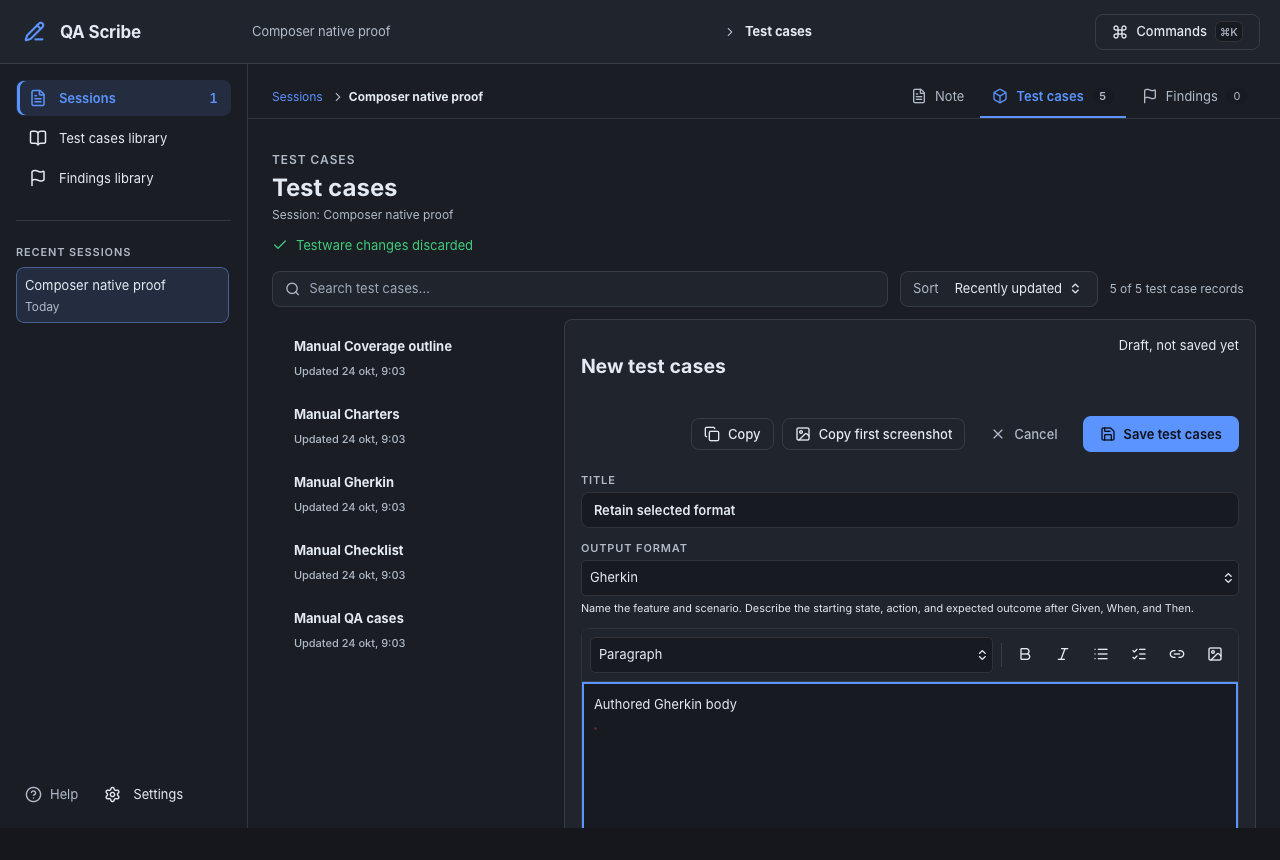
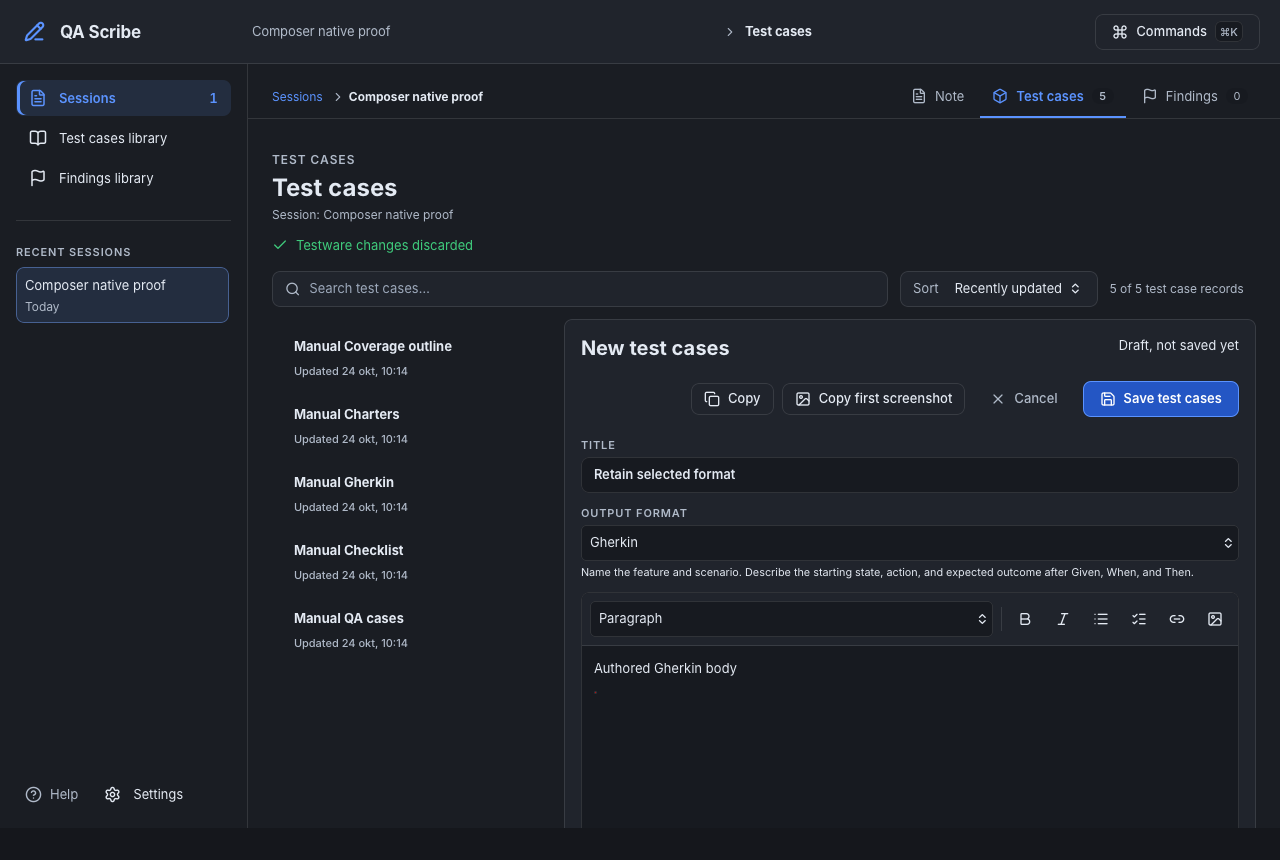
fix(creation): size compact headers to their editor panel

diff --git a/frontend/src/styles/collections.css b/frontend/src/styles/collections.css
@@ -943,7 +943,11 @@
 
 .creation-composer {
   min-width: 0;
+  container-type: inline-size;
+  grid-template-columns: minmax(0, 1fr) auto;
 }
+
+.creation-composer > * { grid-column: 1 / -1; }
 
 .creation-fields {
   border: 0;
@@ -1003,9 +1007,7 @@
   .creation-fields .finding-reference-fields { grid-template-columns: minmax(0, 1fr); }
 }
 
-@media (min-width: 1101px) {
-  .creation-composer { grid-template-columns: minmax(0, 1fr) auto; }
-  .creation-composer > * { grid-column: 1 / -1; }
+@container (min-width: 850px) {
   .creation-composer > .record-heading-row { grid-column: 1; grid-row: 1; align-items: center; }
   .creation-composer > .record-actions { grid-column: 2; grid-row: 1; margin: 0; }
 }

diff --git a/docs/design/manual-formats-chat-attachments/implemented/verification.md b/docs/design/manual-formats-chat-attachments/implemented/verification.md
@@ -14,3 +14,14 @@ The full local verify command stops in three unchanged host tooling tests on mac
 A default desktop run found an obsolete authorization retry assertion that expected the old text-only prompt envelope. It now asserts the literal stable message ID and exact user text in the labelled payload. Later launches in that run were invalidated when a normal Rust build replaced its instrumented binary. The owned run was stopped. A serial default rerun is required and is running before release.
 
 Live Claude vision was unavailable because the local CLI is signed out. Copilot image sends are deliberately rejected before persistence until safe capability negotiation is implemented. Fixture transport acceptance does not establish live model understanding.
+
+
+## Final review corrections
+
+Independent release review traced actual provider detection under diagnostic and selector rollout. The selector projection can differ from the authoritative catalog. Image admission now reads the catalog snapshot directly. Six literal detection cases failed before this correction and pass in both rollout modes afterward. Clippy and all 651 workspace Rust tests pass, with the same three existing opt-in tests ignored.
+
+The serial default desktop run passed 12 of 13 workflows. All three provider authorization workflows, manual formats, Chat images, and first use passed. Independent compiled base/head runs reproduced the same three focus-outline assertions with document and window focus false. Those failures are pre-existing under that observed test state. Active-window keyboard focus remains unqualified.
+
+The screenshot-copy case exposed a compressed creation title in a narrow detail panel. The compact header now follows the actual panel width through a container query. The native manual-format workflow passed all four cases again, including a literal one-line heading assertion while screenshot-copy controls are present. The corrected screenshot replaces the earlier example.
+
+Linux CI initially exceeded the five-second budget in three new full-workspace creation cases. Only those cases now have a ten-second bound; all assertions remain. All 19 focused cases and all 882 frontend tests pass. Two builds at the earlier reviewed head and one build after the test-only edit produced identical WebView assets. That equivalence receipt applies to the test-only correction, before the later container-layout change.
